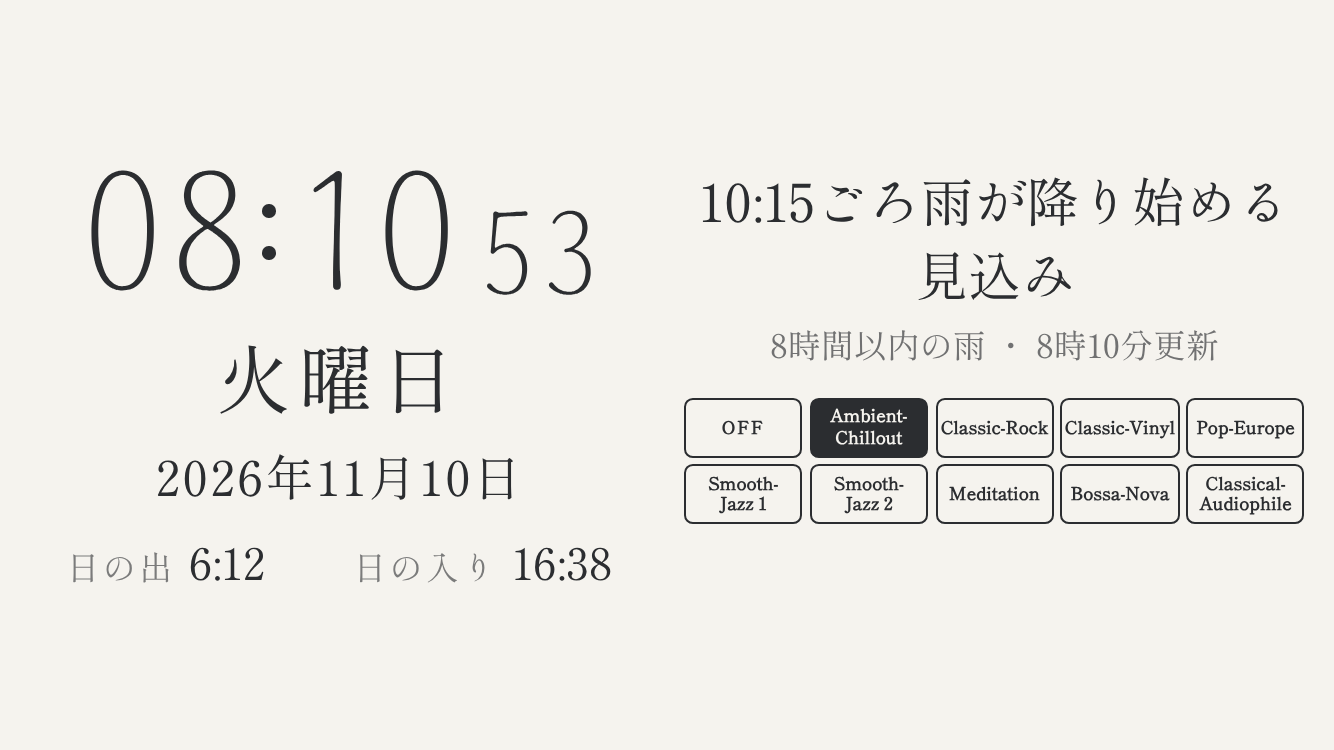
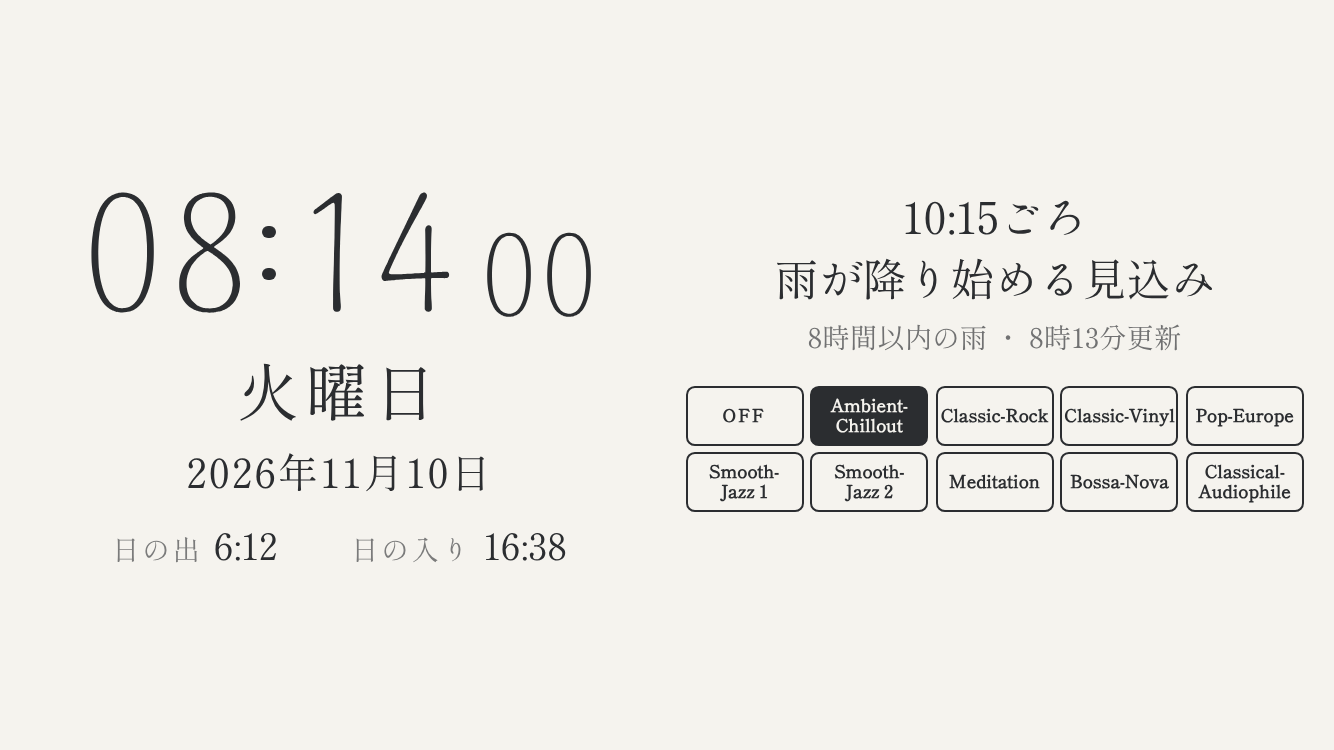
Still Here: 横向きの文字を125%にし、雨予報の文をかたまりの切れ目で折り返す
Claude-Session: https://claude.ai/code/session_01NVsEU5YZ5BtdUQZHyMLdES

diff --git a/still-here/app.js b/still-here/app.js
@@ -166,19 +166,27 @@
       slotsR = data.hourly.time.map(function (t, i) { var e = parseLocal(t); return { start: new Date(e.getTime() - 3600000), end: e, mm: data.hourly.precipitation[i] }; })
         .filter(function (s) { return s.mm != null && s.end > now && s.start < end; });
     }
-    if (!slotsR.length) return 'データがありません';
+    if (!slotsR.length) return ['データがありません'];
     var wet = function (s) { return s.mm >= RAIN_MIN; };
     if (wet(slotsR[0])) {
       var dry = slotsR.filter(function (s) { return !wet(s); })[0];
-      return dry ? 'いま雨。' + hmUTC(dry.start) + 'ごろ止む見込み' : 'いま雨。8時間以内は止まない見込み';
+      return dry ? ['いま雨。', hmUTC(dry.start) + 'ごろ止む見込み'] : ['いま雨。', '8時間以内は止まない見込み'];
     }
     var first = slotsR.filter(wet)[0];
-    return first ? hmUTC(first.start) + 'ごろ雨が降り始める見込み' : '8時間以内は雨の予想なし';
+    return first ? [hmUTC(first.start) + 'ごろ', '雨が降り始める見込み'] : ['8時間以内は', '雨の予想なし'];
   }
 
   function renderForecast() {
     if (!forecast) return;
-    $('rain-main').textContent = rainText(forecast);
+    // 文を意味のかたまりごとに分け、2行になる時はかたまりの切れ目で折り返す
+    var box = $('rain-main');
+    box.innerHTML = '';
+    rainText(forecast).forEach(function (t) {
+      var sp = document.createElement('span');
+      sp.className = 'chunk';
+      sp.textContent = t;
+      box.appendChild(sp);
+    });
     var f = new Date(fetchedAt);
     $('rain-sub').textContent = '8時間以内の雨 ・ ' + f.getHours() + '時' + pad2(f.getMinutes()) + '分更新';
     renderSun(forecast);

diff --git a/still-here/index.html b/still-here/index.html
@@ -88,6 +88,7 @@
   /* 雨予報(文字のみ) */
   .rain { text-align: center; width: 100%; margin-top: 5vh; }
   .rain .main { font-size: calc(var(--T) * 0.2 * var(--k)); line-height: 1.4; }
+  .rain .chunk { display: inline-block; }
   .rain .sub { font-size: calc(var(--T) * 0.13 * var(--k)); opacity: 0.65; margin-top: 0.3em; line-height: 1.5; }
 
   /* ラジオ: 背景・文字色は他と同じ。選ばれたボタンだけ色を反転 */
@@ -118,6 +119,8 @@
   /* 横向き: 左に時刻〜日の出・日の入り、右に雨予報・ラジオ */
   @media (orientation: landscape) {
     :root { --T: min(11vw, 24vh); }
+    /* 横向きは文字の倍率を 125% にする(時刻とボタンの名前は変わらない) */
+    :root { --k: 1.25; }
     /* 左の列に時刻〜日の出・日の入り、右の列の中央に雨予報とラジオ */
     main {
       display: grid; grid-template-columns: 1fr 1fr; grid-template-rows: 1fr auto auto 1fr;

diff --git a/still-here/sw.js b/still-here/sw.js
@@ -10,7 +10,9 @@ const CACHE_PREFIX = 'uniiqcode-still-here-';
 // v2→v3(2026年11月): ラジオを9局にし、ボタンを ON/OFF+9局の10個(5×2・同じ大きさ・小分類名)にした。
 // v3→v4(2026年11月): 縦向きでラジオを画面の下に置き、時刻以外の文字を150%にした。
 // v4→v5(2026年11月): ラジオのボタンの名前を元の大きさに戻し、太字にした。
-const CACHE_NAME = CACHE_PREFIX + 'v5';
+// v5→v6(2026年11月): 横向きの文字を 125% にした。
+// 同じ版で: 雨予報の文を、かたまりの切れ目でだけ折り返すようにした。
+const CACHE_NAME = CACHE_PREFIX + 'v6';
 
 const APP_SHELL = [
   './', 'index.html', 'app.js', 'manifest.json',
